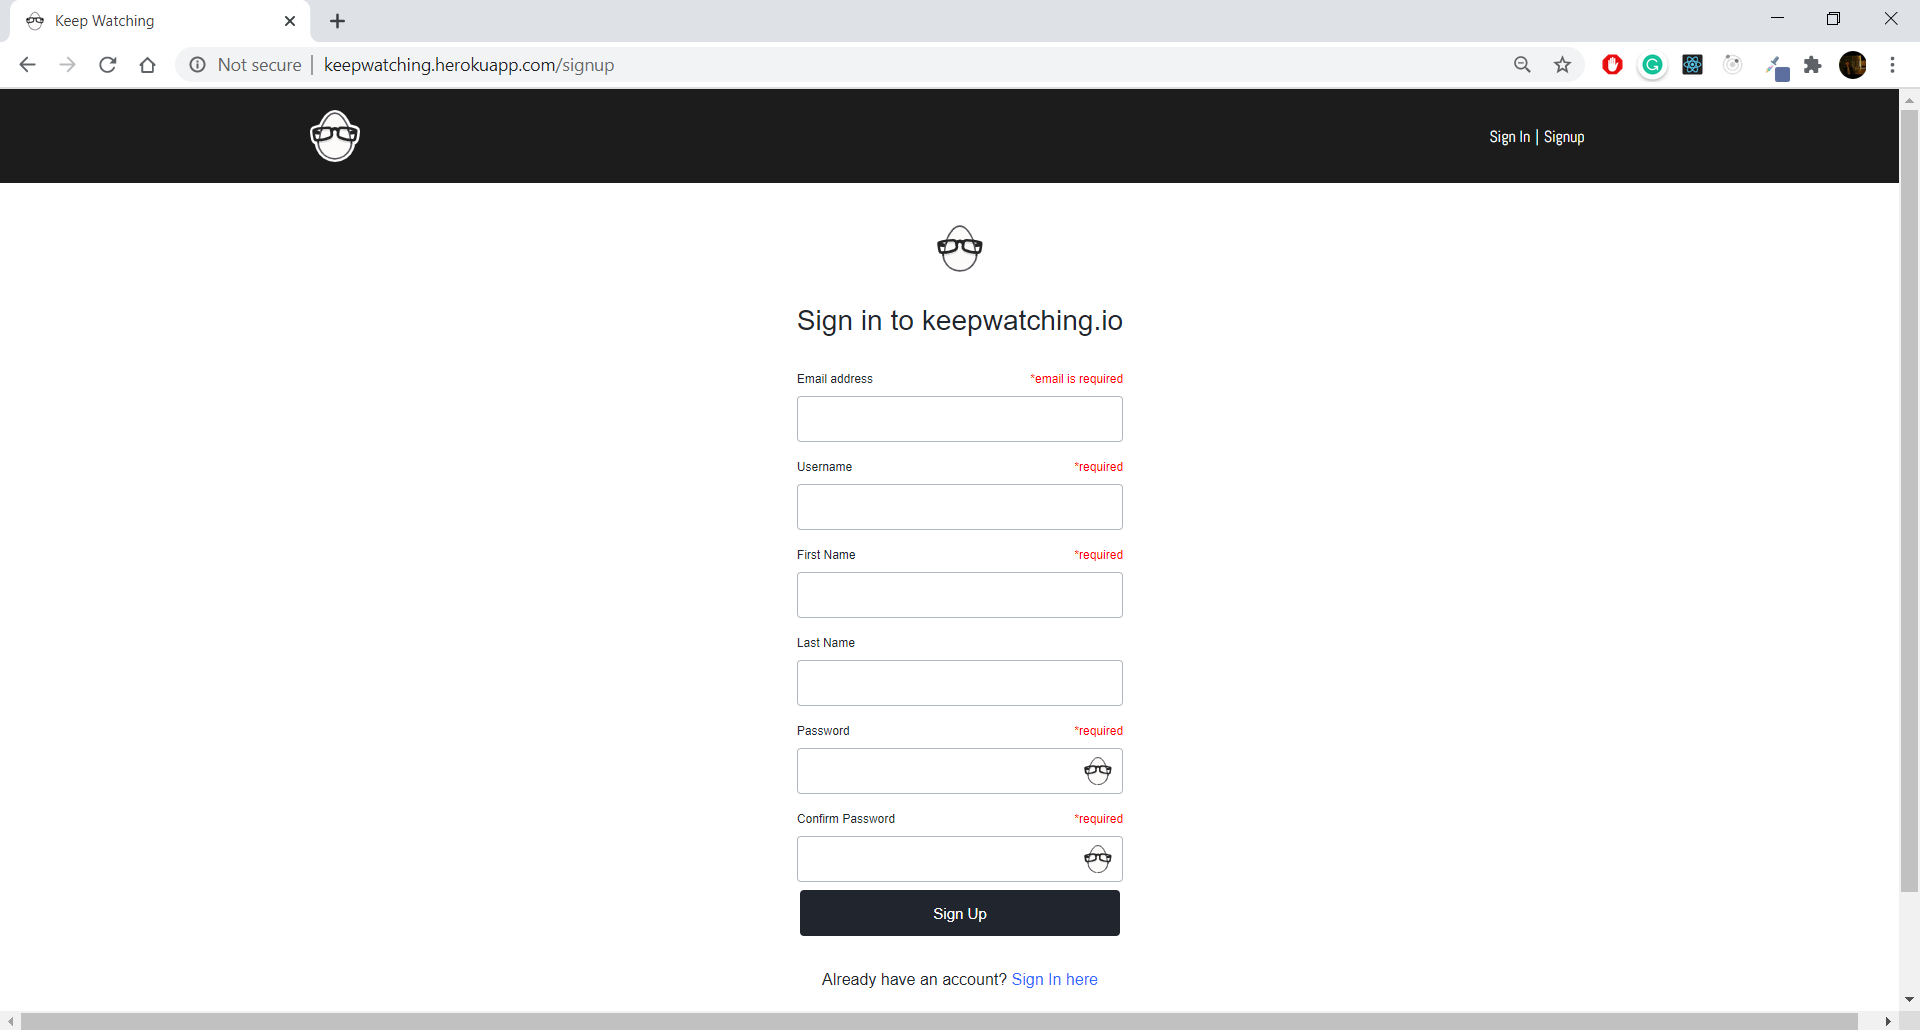
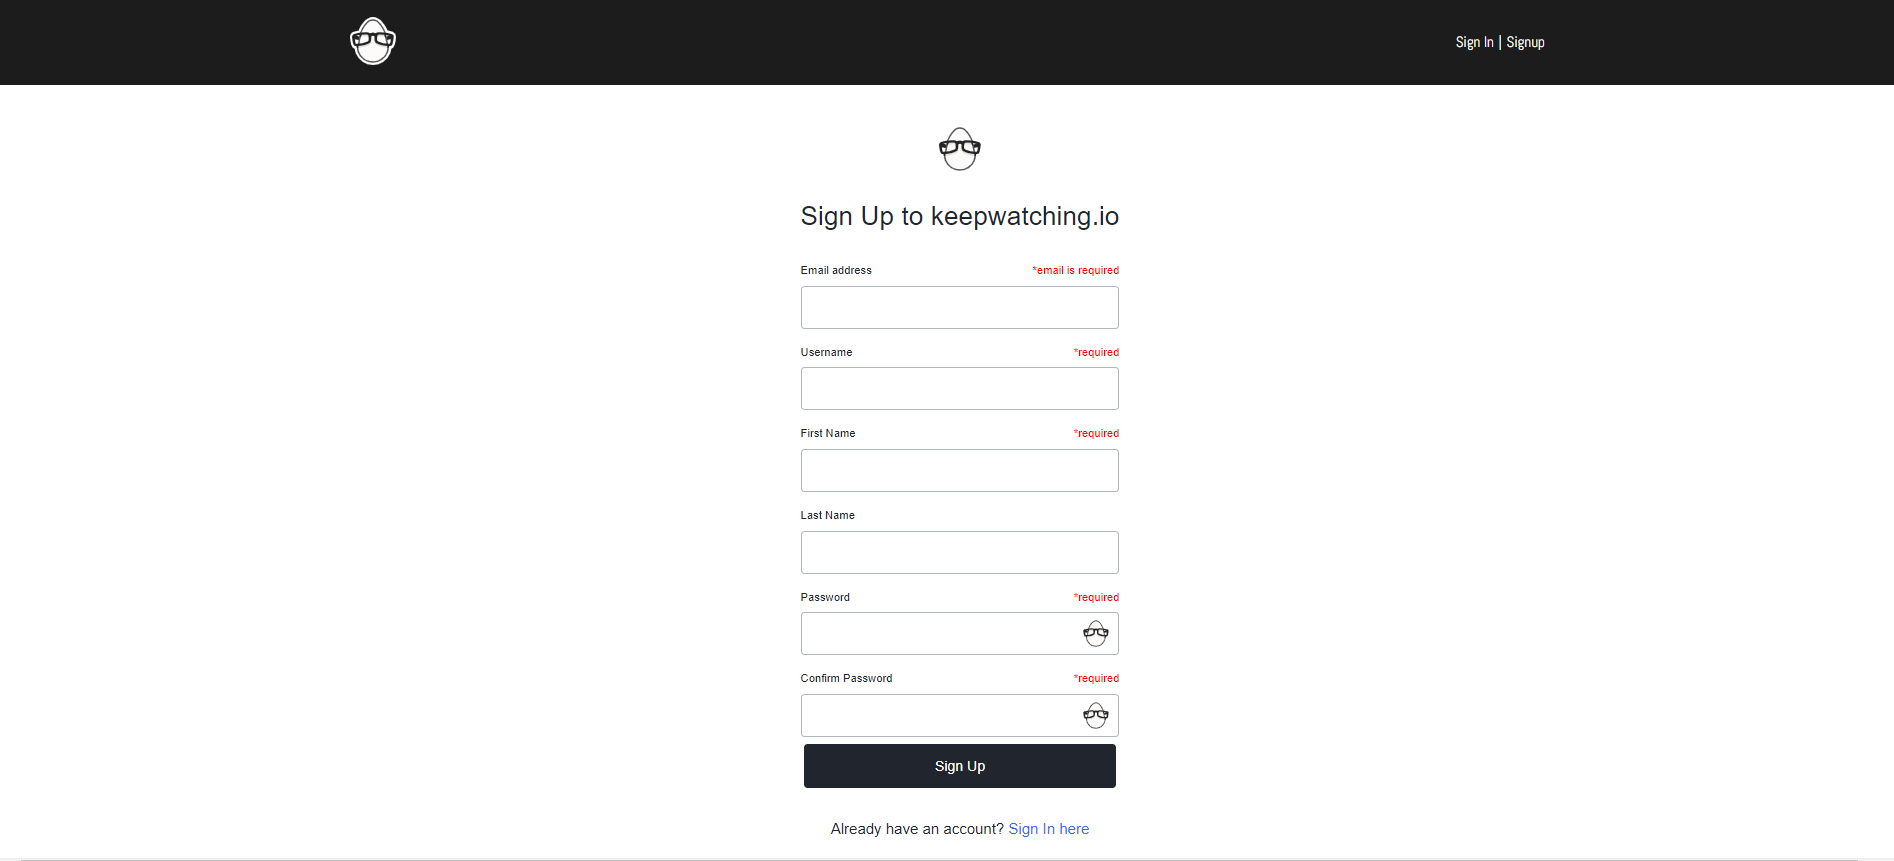
images updated

diff --git a/client/src/components/components/SignUp/SignUp.jsx b/client/src/components/components/SignUp/SignUp.jsx
@@ -259,7 +259,7 @@ const SignUp = (props) =>{
         <div className="signin-container">
             <div className="signin">
                 <EggLogo className="eggLogo"/>
-                <h3>Sign in to keepwatching.io</h3>
+                <h3>Sign Up to keepwatching.io</h3>
                 <a name="#top" id="top"></a>
                 <form onSubmit={handelSubmit} autocomplete="off">
                     {/* <CustomImput type="email" name="email" label="Email" handelChange={handelChange} value={email}/> */}

diff --git a/client/src/components/pages/SignIn/Signin.styles.css b/client/src/components/pages/SignIn/Signin.styles.css
@@ -13,7 +13,8 @@
     line-height: 1.5;
     font-size: 1.5rem;
     display: flex;
-    width: 100vw;
+    width: 85vw;
+    margin: 0 auto;
 }
 
 .signin{
